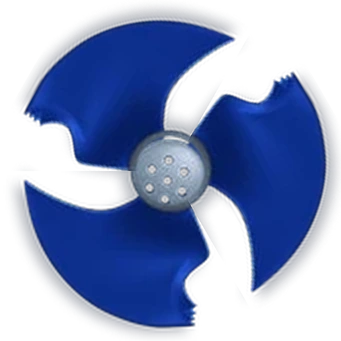
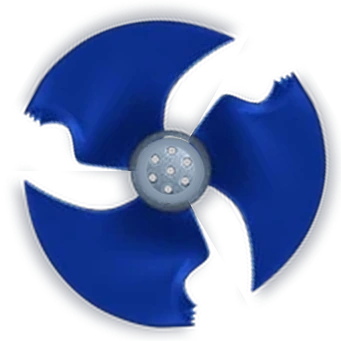
all input

Changed region(s): [[0.4106, 0.3812, 0.6158, 0.6158]]

diff --git a/Inventor_Antlies_Thermotitas_2026/assets/js/app.js b/Inventor_Antlies_Thermotitas_2026/assets/js/app.js
@@ -73,6 +73,9 @@
     <div class="chips rise" style="--d:.9s">${SECTIONS.map(s => `<button class="chipbtn" data-sec="${s.id}"><b>${s.n}</b>${s.name}</button>`).join('')}</div>`
   });
 
+  /* like / dislike (CLM) στο πίσω μέρος κάθε περιστρεφόμενου πλακιδίου */
+  const tf = (key, label) => `<div class="clm-tf" data-tf="${key}" data-tfl="${String(label).replace(/<[^>]*>/g, ' ').replace(/\s+/g, ' ').trim().replace(/"/g, '&quot;')}"></div>`;
+
   /* ---- 02 EXPERIENCE ---- */
   add({ id: 'experience', sec: 'welcome', title: 'Λύσεις άνεσης και απόδοσης', thumb: img('ph-exp.jpg'), cls: 's-exp hp-exp4', html: `
     <div class="photo"><img src="${img('ph-exp.jpg')}" alt=""></div>
@@ -80,7 +83,7 @@
     ${burst(C.INTRO.caption, 'cap', 1)}
     <div class="right"><span class="kicker rise">Κάνουμε περισσότερα…</span><p class="lead rise" style="--d:.1s;margin-top:14px">${C.INTRO.lead}</p>
       <div class="badges rise" style="--d:.3s">${C.INTRO.badges.map(b => `<span>${b}</span>`).join('')}</div></div>
-    <div class="tiles">${C.INTRO.tiles.map((t, i) => tile(i + 1, t[0], `<h4>${t[0]}</h4><div class="scroll" data-scroll><p>${t[1]}</p></div>`, i)).join('')}</div>`
+    <div class="tiles">${C.INTRO.tiles.map((t, i) => tile(i + 1, t[0], `<h4>${t[0]}</h4><div class="scroll" data-scroll><p>${t[1]}</p></div>${tf('exp-' + (i + 1), 'Κάνουμε περισσότερα · ' + t[0])}`, i)).join('')}</div>`
   });
 
   /* ---- 03 PLANET (R290) ---- */
@@ -89,7 +92,7 @@
     ${burst(C.PLANET.title, 'h-thin', .2)}
     ${burst(C.PLANET.caption, 'cap', 1)}
     <div class="right"><span class="kicker rise">R290 · Matrix Zero</span><p class="lead rise" style="--d:.1s;margin-top:14px">${C.PLANET.lead}</p></div>
-    <div class="tiles">${C.PLANET.tiles.map((t, i) => tile(i + 1, t[0], `<h4>${t[0]}</h4><div class="scroll" data-scroll><p>${t[1]}</p></div>`, i)).join('')}</div>`
+    <div class="tiles">${C.PLANET.tiles.map((t, i) => tile(i + 1, t[0], `<h4>${t[0]}</h4><div class="scroll" data-scroll><p>${t[1]}</p></div>${tf('planet-' + (i + 1), 'Πλανήτης · ' + t[0])}`, i)).join('')}</div>`
   });
 
   /* ---- 04 R290 safe & eco ---- */
@@ -101,7 +104,7 @@
       <div class="gx"><div class="gwp rise" style="--d:.6s">${C.R290.stats.map(s => `<div class="g glass"><span>${s[0]}</span><b>=<i class="run">${s[1]}</i></b><p>${s[2]}</p></div>`).join('')}</div>
       <div class="xplw rise" style="--d:.8s" title="Κλικ: δείτε τα επιμέρους σημεία"><img class="xb" src="${pimg('mx290-body')}" alt="Matrix Zero R290"><img class="xl" src="${pimg('mx290-lid')}" alt=""></div></div>
     </div>
-    <div class="tiles" data-fit="min">${C.R290.tiles.map((t, i) => tile(i + 1, t[0], `<h4>${t[0]}</h4><div class="scroll" data-scroll><ul>${t[1].map(x => `<li>${x}</li>`).join('')}</ul></div>`, i)).join('')}</div>`,
+    <div class="tiles" data-fit="min">${C.R290.tiles.map((t, i) => tile(i + 1, t[0], `<h4>${t[0]}</h4><div class="scroll" data-scroll><ul>${t[1].map(x => `<li>${x}</li>`).join('')}</ul></div>${tf('r290-' + (i + 1), 'R290 · ' + t[0])}`, i)).join('')}</div>`,
     init(el) { const w = $('.xplw', el); w.addEventListener('click', () => { w.classList.add('open');
       dialog(`<span>Matrix Zero R290</span><small>Τα βασικά μέρη της αντλίας</small>`, `<div class="dlg-img hp-anat"><img src="${img('hp-mx-anatomy.webp')}" alt="Matrix Zero R290 · επιμέρους σημεία"></div>`); }); },
     enter(el) { $('.xplw', el).classList.remove('open'); }
@@ -263,7 +266,7 @@
     <div class="photo"><img src="${img('ph-future.jpg')}" alt=""></div>
     ${burst(C.STEPS.title, 'h-thin', .1)}
     <p class="lead rise" style="--d:.4s">${C.STEPS.lead}</p>
-    <div class="tiles" data-fit="each">${C.STEPS.cards.map((c, i) => tile(i + 1, `<span class="ft">${c[0]}</span><span class="fs">${c[1]}</span>`, `<h4>${c[1]}</h4><div class="scroll" data-scroll><p>${c[2]}</p></div>`, i)).join('')}</div>`
+    <div class="tiles" data-fit="each">${C.STEPS.cards.map((c, i) => tile(i + 1, `<span class="ft">${c[0]}</span><span class="fs">${c[1]}</span>`, `<h4>${c[1]}</h4><div class="scroll" data-scroll><p>${c[2]}</p></div>${tf('steps-' + (i + 1), 'Βήματα · ' + c[0])}`, i)).join('')}</div>`
   });
 
   /* ---- SERVICES ---- */
@@ -282,7 +285,7 @@
       <div class="t"><p><b>Τι αντλία θερμότητας<br>χρειάζεται το έργο σας;</b></p>
       <button class="btn red" data-calc style="align-self:flex-start">ΥΠΟΛΟΓΙΣΜΟΣ ${arrowIco}</button></div>
     </div>
-    <div class="tiles" data-fit="each">${svc.cards.map((c, i) => tile(i + 1, `<span class="ft">${c.front[0]}</span><span class="fs">${c.front[1]}</span>`, svcBack(c), i)).join('')}</div>`
+    <div class="tiles" data-fit="each">${svc.cards.map((c, i) => tile(i + 1, `<span class="ft">${c.front[0]}</span><span class="fs">${c.front[1]}</span>`, svcBack(c) + tf('svc-' + (i + 1), 'Υπηρεσίες · ' + c.front[0]), i)).join('')}</div>`
   });
 
   /* ---- END ---- */

diff --git a/Inventor_Antlies_Thermotitas_2026/tools/slides.js b/Inventor_Antlies_Thermotitas_2026/tools/slides.js
@@ -13,6 +13,9 @@
     <div class="chips rise" style="--d:.9s">${SECTIONS.map(s => `<button class="chipbtn" data-sec="${s.id}"><b>${s.n}</b>${s.name}</button>`).join('')}</div>`
   });
 
+  /* like / dislike (CLM) στο πίσω μέρος κάθε περιστρεφόμενου πλακιδίου */
+  const tf = (key, label) => `<div class="clm-tf" data-tf="${key}" data-tfl="${String(label).replace(/<[^>]*>/g, ' ').replace(/\s+/g, ' ').trim().replace(/"/g, '&quot;')}"></div>`;
+
   /* ---- 02 EXPERIENCE ---- */
   add({ id: 'experience', sec: 'welcome', title: 'Λύσεις άνεσης και απόδοσης', thumb: img('ph-exp.jpg'), cls: 's-exp hp-exp4', html: `
     <div class="photo"><img src="${img('ph-exp.jpg')}" alt=""></div>
@@ -20,7 +23,7 @@
     ${burst(C.INTRO.caption, 'cap', 1)}
     <div class="right"><span class="kicker rise">Κάνουμε περισσότερα…</span><p class="lead rise" style="--d:.1s;margin-top:14px">${C.INTRO.lead}</p>
       <div class="badges rise" style="--d:.3s">${C.INTRO.badges.map(b => `<span>${b}</span>`).join('')}</div></div>
-    <div class="tiles">${C.INTRO.tiles.map((t, i) => tile(i + 1, t[0], `<h4>${t[0]}</h4><div class="scroll" data-scroll><p>${t[1]}</p></div>`, i)).join('')}</div>`
+    <div class="tiles">${C.INTRO.tiles.map((t, i) => tile(i + 1, t[0], `<h4>${t[0]}</h4><div class="scroll" data-scroll><p>${t[1]}</p></div>${tf('exp-' + (i + 1), 'Κάνουμε περισσότερα · ' + t[0])}`, i)).join('')}</div>`
   });
 
   /* ---- 03 PLANET (R290) ---- */
@@ -29,7 +32,7 @@
     ${burst(C.PLANET.title, 'h-thin', .2)}
     ${burst(C.PLANET.caption, 'cap', 1)}
     <div class="right"><span class="kicker rise">R290 · Matrix Zero</span><p class="lead rise" style="--d:.1s;margin-top:14px">${C.PLANET.lead}</p></div>
-    <div class="tiles">${C.PLANET.tiles.map((t, i) => tile(i + 1, t[0], `<h4>${t[0]}</h4><div class="scroll" data-scroll><p>${t[1]}</p></div>`, i)).join('')}</div>`
+    <div class="tiles">${C.PLANET.tiles.map((t, i) => tile(i + 1, t[0], `<h4>${t[0]}</h4><div class="scroll" data-scroll><p>${t[1]}</p></div>${tf('planet-' + (i + 1), 'Πλανήτης · ' + t[0])}`, i)).join('')}</div>`
   });
 
   /* ---- 04 R290 safe & eco ---- */
@@ -41,7 +44,7 @@
       <div class="gx"><div class="gwp rise" style="--d:.6s">${C.R290.stats.map(s => `<div class="g glass"><span>${s[0]}</span><b>=<i class="run">${s[1]}</i></b><p>${s[2]}</p></div>`).join('')}</div>
       <div class="xplw rise" style="--d:.8s" title="Κλικ: δείτε τα επιμέρους σημεία"><img class="xb" src="${pimg('mx290-body')}" alt="Matrix Zero R290"><img class="xl" src="${pimg('mx290-lid')}" alt=""></div></div>
     </div>
-    <div class="tiles" data-fit="min">${C.R290.tiles.map((t, i) => tile(i + 1, t[0], `<h4>${t[0]}</h4><div class="scroll" data-scroll><ul>${t[1].map(x => `<li>${x}</li>`).join('')}</ul></div>`, i)).join('')}</div>`,
+    <div class="tiles" data-fit="min">${C.R290.tiles.map((t, i) => tile(i + 1, t[0], `<h4>${t[0]}</h4><div class="scroll" data-scroll><ul>${t[1].map(x => `<li>${x}</li>`).join('')}</ul></div>${tf('r290-' + (i + 1), 'R290 · ' + t[0])}`, i)).join('')}</div>`,
     init(el) { const w = $('.xplw', el); w.addEventListener('click', () => { w.classList.add('open');
       dialog(`<span>Matrix Zero R290</span><small>Τα βασικά μέρη της αντλίας</small>`, `<div class="dlg-img hp-anat"><img src="${img('hp-mx-anatomy.webp')}" alt="Matrix Zero R290 · επιμέρους σημεία"></div>`); }); },
     enter(el) { $('.xplw', el).classList.remove('open'); }
@@ -204,7 +207,7 @@
     <svg class="flows" data-flows="steps"></svg>
     ${burst(C.STEPS.title, 'h-thin', .1)}
     <p class="lead rise" style="--d:.4s">${C.STEPS.lead}</p>
-    <div class="tiles" data-fit="each">${C.STEPS.cards.map((c, i) => tile(i + 1, `<span class="ft">${c[0]}</span><span class="fs">${c[1]}</span>`, `<h4>${c[1]}</h4><div class="scroll" data-scroll><p>${c[2]}</p></div>`, i)).join('')}</div>`
+    <div class="tiles" data-fit="each">${C.STEPS.cards.map((c, i) => tile(i + 1, `<span class="ft">${c[0]}</span><span class="fs">${c[1]}</span>`, `<h4>${c[1]}</h4><div class="scroll" data-scroll><p>${c[2]}</p></div>${tf('steps-' + (i + 1), 'Βήματα · ' + c[0])}`, i)).join('')}</div>`
   });
 
   /* ---- SERVICES ---- */
@@ -223,7 +226,7 @@
       <div class="t"><p><b>Τι αντλία θερμότητας<br>χρειάζεται το έργο σας;</b></p>
       <button class="btn red" data-calc style="align-self:flex-start">ΥΠΟΛΟΓΙΣΜΟΣ ${arrowIco}</button></div>
     </div>
-    <div class="tiles" data-fit="each">${svc.cards.map((c, i) => tile(i + 1, `<span class="ft">${c.front[0]}</span><span class="fs">${c.front[1]}</span>`, svcBack(c), i)).join('')}</div>`
+    <div class="tiles" data-fit="each">${svc.cards.map((c, i) => tile(i + 1, `<span class="ft">${c.front[0]}</span><span class="fs">${c.front[1]}</span>`, svcBack(c) + tf('svc-' + (i + 1), 'Υπηρεσίες · ' + c.front[0]), i)).join('')}</div>`
   });
 
   /* ---- END ---- */

diff --git a/Inventor_Antlies_Thermotitas_2026/index.html b/Inventor_Antlies_Thermotitas_2026/index.html
@@ -9,10 +9,10 @@
 <meta name="theme-color" content="#07090c">
 <link rel="icon" type="image/png" href="assets/img/favicon.png">
 <link rel="stylesheet" href="assets/vendor/leaflet/leaflet.css">
-<link rel="stylesheet" href="assets/css/style.css?v=20261018a">
-<link rel="stylesheet" href="assets/css/premium.css?v=20261018a">
-<link rel="stylesheet" href="assets/css/hp.css?v=20261018a">
-<link rel="stylesheet" href="assets/css/clm.css?v=20261018a">
+<link rel="stylesheet" href="assets/css/style.css?v=20261018b">
+<link rel="stylesheet" href="assets/css/premium.css?v=20261018b">
+<link rel="stylesheet" href="assets/css/hp.css?v=20261018b">
+<link rel="stylesheet" href="assets/css/clm.css?v=20261018b">
 </head>
 <body>
 <canvas id="fx" aria-hidden="true"></canvas>
@@ -66,11 +66,11 @@
 <div id="rotateHint">Για την καλύτερη εμπειρία γυρίστε τη συσκευή οριζόντια</div>
 
 <script src="assets/vendor/leaflet/leaflet.js"></script>
-<script src="assets/js/data.js?v=20261018a"></script>
+<script src="assets/js/data.js?v=20261018b"></script>
 <script src="assets/js/servicepoints.js"></script>
-<script src="assets/js/app.js?v=20261018a"></script>
+<script src="assets/js/app.js?v=20261018b"></script>
 <script>window.CLM_CFG={catalog:"antlies-thermotitas-2026.10",key:"hp2026",questions:[["WHOLESALE_PRICE","Τιμή χονδρικής"],["AVAILABILITY","Διαθεσιμότητα / παράδοση"],["SUBSIDY","Επιδότηση (Εξοικονομώ)"],["TECH_STUDY","Τεχνική μελέτη / διαστασιολόγηση"],["INSTALL","Εγκατάσταση / εκκίνηση"],["POS_MATERIAL","Υλικό προβολής"],["WARRANTY","Εγγύηση / Service"]]};</script>
-<script src="assets/js/clm.js?v=20261018a"></script>
+<script src="assets/js/clm.js?v=20261018b"></script>
 <!-- auto-fullscreen -->
 <style>
 #fsHint{position:fixed;left:50%;bottom:34px;transform:translate(-50%,16px);z-index:80;display:flex;align-items:center;gap:10px;padding:11px 18px 11px 14px;border-radius:30px;

diff --git a/Inventor_Antlies_Thermotitas_2026/assets/css/hp.css b/Inventor_Antlies_Thermotitas_2026/assets/css/hp.css
@@ -253,3 +253,6 @@ body .s-war .wtxt p:first-child{font-size:44px}
 /* v3: R290 anatomy popup */
 .dlg-img.hp-anat{cursor:default;position:relative;min-height:0}
 .dlg-img.hp-anat img{position:absolute;inset:0;margin:auto;max-width:calc(100% - 40px);max-height:calc(100% - 40px);width:auto;height:auto;background:#fff;padding:12px;border-radius:16px;box-sizing:border-box}
+/* v4: like / dislike σε όλα τα περιστρεφόμενα πλακίδια — λίγο πιο σφιχτό πίσω μέρος ώστε να χωρά το κείμενο */
+.hp-exp4 .tile .back,.hp-feat .tile .back{padding:18px 22px 12px;gap:8px}
+.tile .back .clm-tf{min-height:52px;padding-top:6px}

diff --git a/Inventor_Antlies_Thermotitas_2026/tools/fan_hub_center.py b/Inventor_Antlies_Thermotitas_2026/tools/fan_hub_center.py
@@ -1,0 +1,30 @@
+# Φέρνει την κεντρική τρύπα της πλάκας της φτερωτής ακριβώς στον άξονα περιστροφής (κέντρο εικόνας).
+# Χρήση: python fan_hub_center.py p-mx290-fan-s.webp out.webp
+import sys,numpy as np
+from PIL import Image
+src,dst=sys.argv[1],sys.argv[2]
+im=np.array(Image.open(src).convert('RGBA')).astype(float)
+H,W=im.shape[:2];C=(W-1)/2  # pixel-centre of the rotation axis (CSS rotates around 50%/50%)
+Y,X=np.mgrid[0:H,0:W]
+hx,hy=166.9,180.0  # centre of the 7-hole pattern (measured)
+out=im.copy()
+# 1) clean, rotationally symmetric hub plate for the annulus around the axis
+r=np.hypot(X-C,Y-C);ang=np.arctan2(Y-C,X-C)
+lum=im[...,:3].mean(-1);sat=im[...,:3].max(-1)-im[...,:3].min(-1)
+good=(sat<40)&(lum>120)&(im[...,3]>230)&(np.hypot(X-hx,Y-hy)>0)
+prof={}
+for rr in range(0,36):
+  m=good&(np.abs(r-rr)<0.75)
+  if m.sum()>5: prof[rr]=np.median(im[m],axis=0)
+keys=sorted(prof);arr=np.array([prof[k] for k in keys])
+fill=np.stack([np.interp(r,keys,arr[:,c]) for c in range(4)],-1)
+wA=np.clip((33.5-r)/1.5,0,1)[...,None]          # annulus fill up to the hub's own edge
+out=out*(1-wA)+fill*wA
+# 2) paste the hole plate so the centre hole sits exactly on the axis
+R0=25.0
+dx,dy=hx-C,hy-C
+pl=Image.fromarray(im.astype(np.uint8)).transform((W,H),Image.AFFINE,(1,0,dx,0,1,dy),resample=Image.BICUBIC)
+pl=np.array(pl).astype(float)
+wP=np.clip((R0-r)/2.0,0,1)[...,None]
+out=out*(1-wP)+pl*wP
+Image.fromarray(np.clip(out,0,255).astype(np.uint8)).save(dst,quality=92,method=6)
